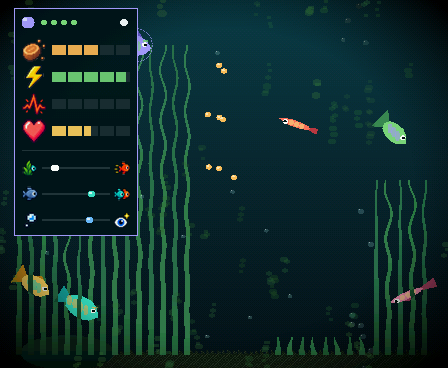
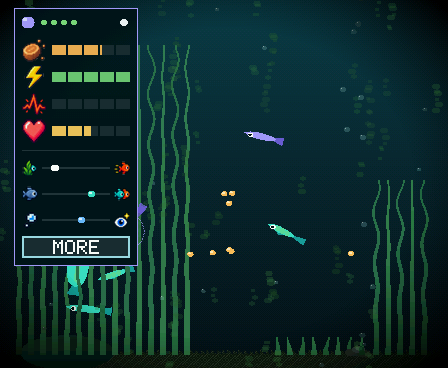
Stats card: a MORE button at its foot, and a hit box that reaches below it
Resync from dev: the card gains a labeled MORE button (the whole card was
already the tap that opens the milestones page; now it says so), the tap
target extends 56 px below and 12 px beside the card, the sim opens the page
on a click inside the card, and the stats-card screenshot shows the button.

diff --git a/common/render.h b/common/render.h
@@ -44,7 +44,10 @@ void render_fb_primed(const uint16_t *fb, unsigned epoch);
  * visual bars (drives + personality) and stage pips. No text, no digits —
  * the progression design's "simple and visual" stats view. Personality bars
  * are revealed only after the fish has shown that side of itself (milestone
- * bits): you learn your fish by watching.
+ * bits): you learn your fish by watching. A MORE button sits at the foot
+ * of the card (2026-09-16, Strato: "how do I get to the milestones and
+ * settings screen? it's not very obvious") - the label is the only text on
+ * it; a tap anywhere on the card, button or not, opens the milestones page.
  * fish_idx == RENDER_CARD_SNAIL (2026-09-16): the SNAIL's card instead - a
  * ring on the snail and a small centred card: the upright sprite at 2x and
  * how much algae it has grazed so far (tank_t.snail_grazed). The platforms
@@ -58,7 +61,15 @@ void render_stats_card(const tank_t *t, int fish_idx, uint16_t *fb, int stride);
 #define RENDER_CARD_X 14
 #define RENDER_CARD_Y 8
 #define RENDER_CARD_W 124
-#define RENDER_CARD_H 228
+#define RENDER_CARD_H 258       /* 228 + the MORE button strip (2026-09-16) */
+/* the card's tap hit box (touch ports): the card itself plus slop, most of
+ * it BELOW the MORE button - fingers aiming at a button by the foot land
+ * low and wide (Strato, 2026-09-16: "I'm not tapping it reliably"), and the
+ * water under the card is nothing a tap needs. RENDER_CARD_HIT(x, y) is the test. */
+#define RENDER_CARD_HIT_BELOW 56
+#define RENDER_CARD_HIT_SIDE  12
+#define RENDER_CARD_HIT(x, y) ((x) >= RENDER_CARD_X - RENDER_CARD_HIT_SIDE && (x) < RENDER_CARD_X + RENDER_CARD_W + RENDER_CARD_HIT_SIDE && \
+                               (y) >= RENDER_CARD_Y && (y) < RENDER_CARD_Y + RENDER_CARD_H + RENDER_CARD_HIT_BELOW)
 void render_set_card_cache(uint16_t *buf);
 
 /* Device battery pill (top-right), drawn with the stats card on hardware:

diff --git a/common/render.c b/common/render.c
@@ -1235,6 +1235,8 @@ static void slider(ctx_t *c, int x, int y, int w, float frac, uint32_t rgb,
         blit_icon(c, lx + lw / 2 - 8, y, &icon_unknown_16, 220);
 }
 
+static void button(ctx_t *c, int x, int y, int W, int H, uint32_t fill, uint32_t edge, const char *label, int scale);   /* below */
+#define CARD_MORE_H 22
 static void card_draw(ctx_t c, const tank_t *t, int fish_idx) {
     const fish_t *f = &t->fish[fish_idx];
     /* card: top-left, bordered in the fish's own color (that's its "name").
@@ -1300,6 +1302,13 @@ static void card_draw(ctx_t c, const tank_t *t, int fish_idx) {
     slider(&c, X + 8, Y + 152, W - 16, f->bold,             0xffffff, &icon_shy,      &icon_bold,    saw_bold);
     slider(&c, X + 8, Y + 178, W - 16, f->sociable,         0x38dcc7, &icon_solo,     &icon_social,  saw_social);
     slider(&c, X + 8, Y + 204, W - 16, f->curiosity / 10.0f, 0x6db9ff, &icon_cautious, &icon_curious, saw_curious);
+
+    /* the way onward (2026-09-16): a MORE button in the pages' dress at the
+       foot of the card. The whole card was already the tap that opens the
+       milestones page (and from there SETTINGS / UPGRADES), but nothing said
+       so - a keeper asked Strato how to get there. The button is the sign;
+       the hit box is still the card (touch ports, RENDER_CARD_H). */
+    button(&c, X + 8, Y + H - 8 - CARD_MORE_H, W - 16, CARD_MORE_H, 0x1c2f36, 0x9fd8e2, "MORE", 2);
 }
 
 /* ---- stats card cache (2026-09-01) ----

diff --git a/sim/main.c b/sim/main.c
@@ -2047,7 +2047,11 @@ int main(int argc, char **argv) {
                     float d2 = d2a < d2b ? d2a : d2b;
                     if (d2 < bd) { bd = d2; best = i; }
                 }
-                if (best >= 0) selected_fish = (best == selected_fish) ? -1 : best;
+                /* a click ON the open card (its MORE button, or any of it): the
+                   milestones page, as the device's touch port does (2026-09-16) */
+                if (selected_fish >= 0 && selected_fish != RENDER_CARD_SNAIL && RENDER_CARD_HIT(press_x, press_y))
+                    milestones_view = true;
+                else if (best >= 0) selected_fish = (best == selected_fish) ? -1 : best;
                 else if (tank_snail_hit(&tank, (float)press_x, (float)press_y))   /* the snail: its card (2026-09-16) */
                     selected_fish = selected_fish == RENDER_CARD_SNAIL ? -1 : RENDER_CARD_SNAIL;
                 else if (selected_fish >= 0) selected_fish = -1;   /* card up: empty-glass tap dismisses, nothing else */

diff --git a/firmware/main/touch_port_ft3168.c b/firmware/main/touch_port_ft3168.c
@@ -150,9 +150,9 @@ void touch_port_poll(tank_t *t) {
                 progression_ack_milestones(t); render_milestones_leave();   /* everything shown is now "seen" */
                 goto released;
             }
-            if (s_sel >= 0 && s_sel != RENDER_CARD_SNAIL && s_px >= RENDER_CARD_X && s_px < RENDER_CARD_X + RENDER_CARD_W &&
-                s_py >= RENDER_CARD_Y && s_py < RENDER_CARD_Y + RENDER_CARD_H) {
-                s_ms = true; goto released;                          /* a tap ON the card = milestones page */
+            if (s_sel >= 0 && s_sel != RENDER_CARD_SNAIL && RENDER_CARD_HIT(s_px, s_py)) {   /* a tap ON the card (or the slop
+                ESP_LOGI(TAG, "card tap at %.0f,%.0f -> milestones", s_px, s_py);         under its MORE button) = milestones page */
+                s_ms = true; goto released;
             }
             /* fish first; only an empty tap reaches the water. 38 px radius
                (a fingertip on this 322 ppi panel covers ~60 px) against BOTH

diff --git a/firmware/main/touch_port.h b/firmware/main/touch_port.h
@@ -6,7 +6,8 @@
 bool touch_port_init(void);
 void touch_port_poll(tank_t *t);
 int  touch_port_selected(void);   /* tapped fish for the stats card, RENDER_CARD_SNAIL for the snail's, -1 = none */
-/* milestones page: a tap ON the open stats card flips to it; it has no
+/* milestones page: a tap ON the open stats card (its MORE button, or any of
+ * it) flips to it; it has no
  * auto-dismiss - the next tap anywhere closes it (and the card, if still up).
  * touch_port_show_milestones is the director's cue (needs no card). */
 bool touch_port_milestones(void);

diff --git a/README.md b/README.md
@@ -113,7 +113,9 @@ moment before committing.
 ![The stats card](docs/media/sim-stats-card.png)
 
 Tap a fish for its stats card. Needs, traits, and trust are revealed as the
-fish shows that side of itself, so a new fish's card is mostly blank.
+fish shows that side of itself, so a new fish's card is mostly blank. The
+MORE button at its foot (or a tap anywhere on the card) opens the milestones
+page, where the SETTINGS and UPGRADES buttons live.
 
 ## The living tank
 
@@ -154,7 +156,7 @@ a bed down to nubs. Algae films the glass over hours and a drag across it
 squeegees it clean. Fish like cover: grass calms them, and only a tank truly
 smothered by two beds at the ceiling stresses them.
 
-**Milestones.** Tap the open stats card for the milestones page: a row per
+**Milestones.** Tap MORE on the open stats card for the milestones page: a row per
 fish with its sprite at its real size, its name and a growth strip, then a
 badge for each first it has chosen to do: first meal from you, first
 hold-approach, first reef, first bubbles, first follow, first dart. The
@@ -328,7 +330,7 @@ brain works out of the box.
 
 In the window, the mouse is your finger: tap the water surface or drag down
 from the top edge to feed, click a fish for its stats card, click the card
-for milestones, hold the button to rest a finger on the glass, three quick
+(or its MORE button) for milestones, hold the button to rest a finger on the glass, three quick
 clicks to startle, two to toggle the light, drag across the glass to wipe
 algae, and stroke sideways through a bed to trim it. Keys: **F** feed at the
 mouse, **N** light, **A** auto light, **H** handle the tank (moving the
